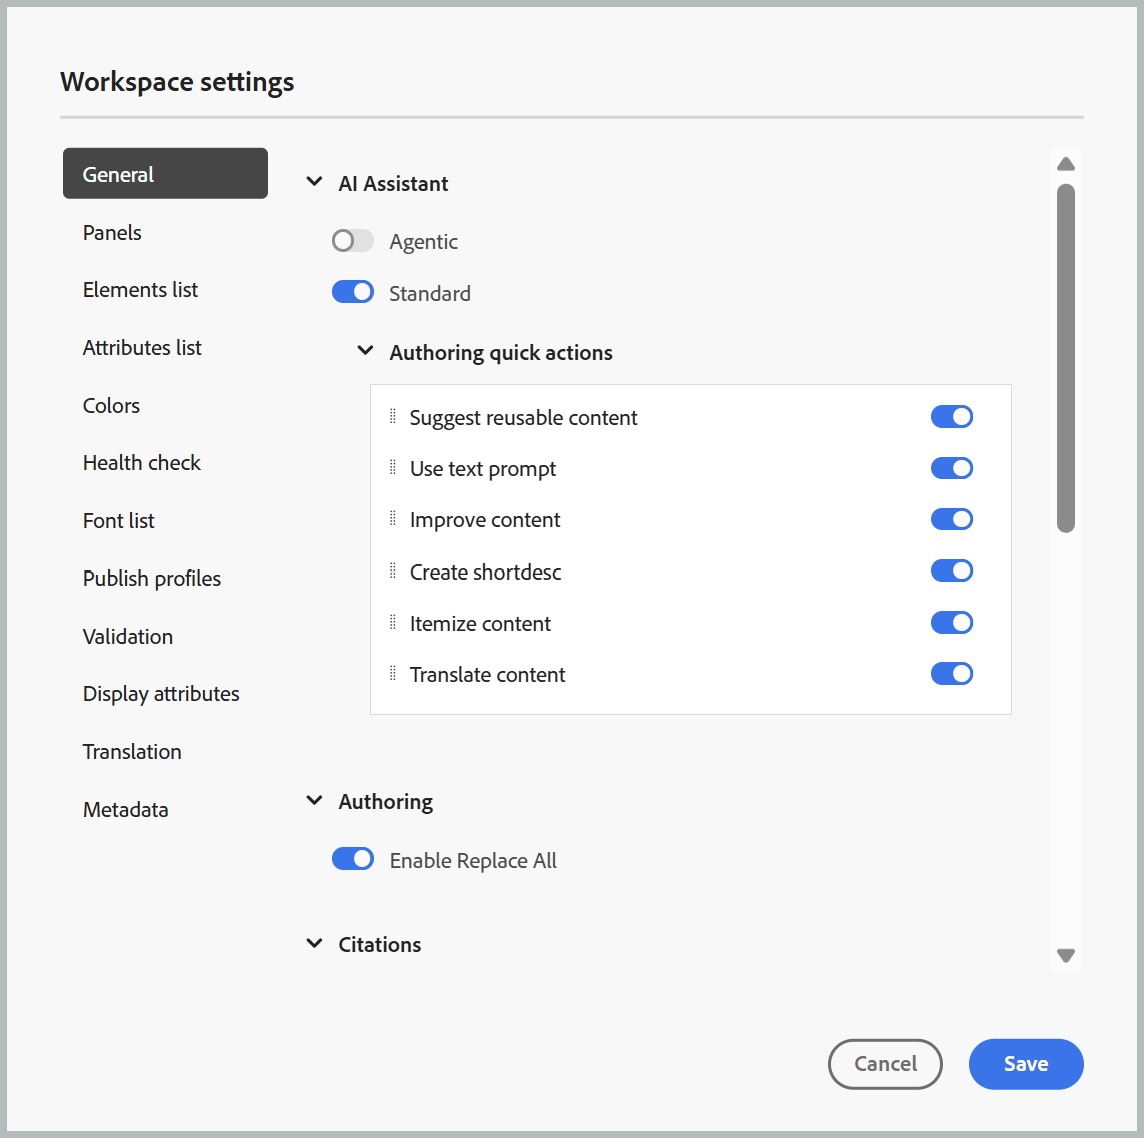
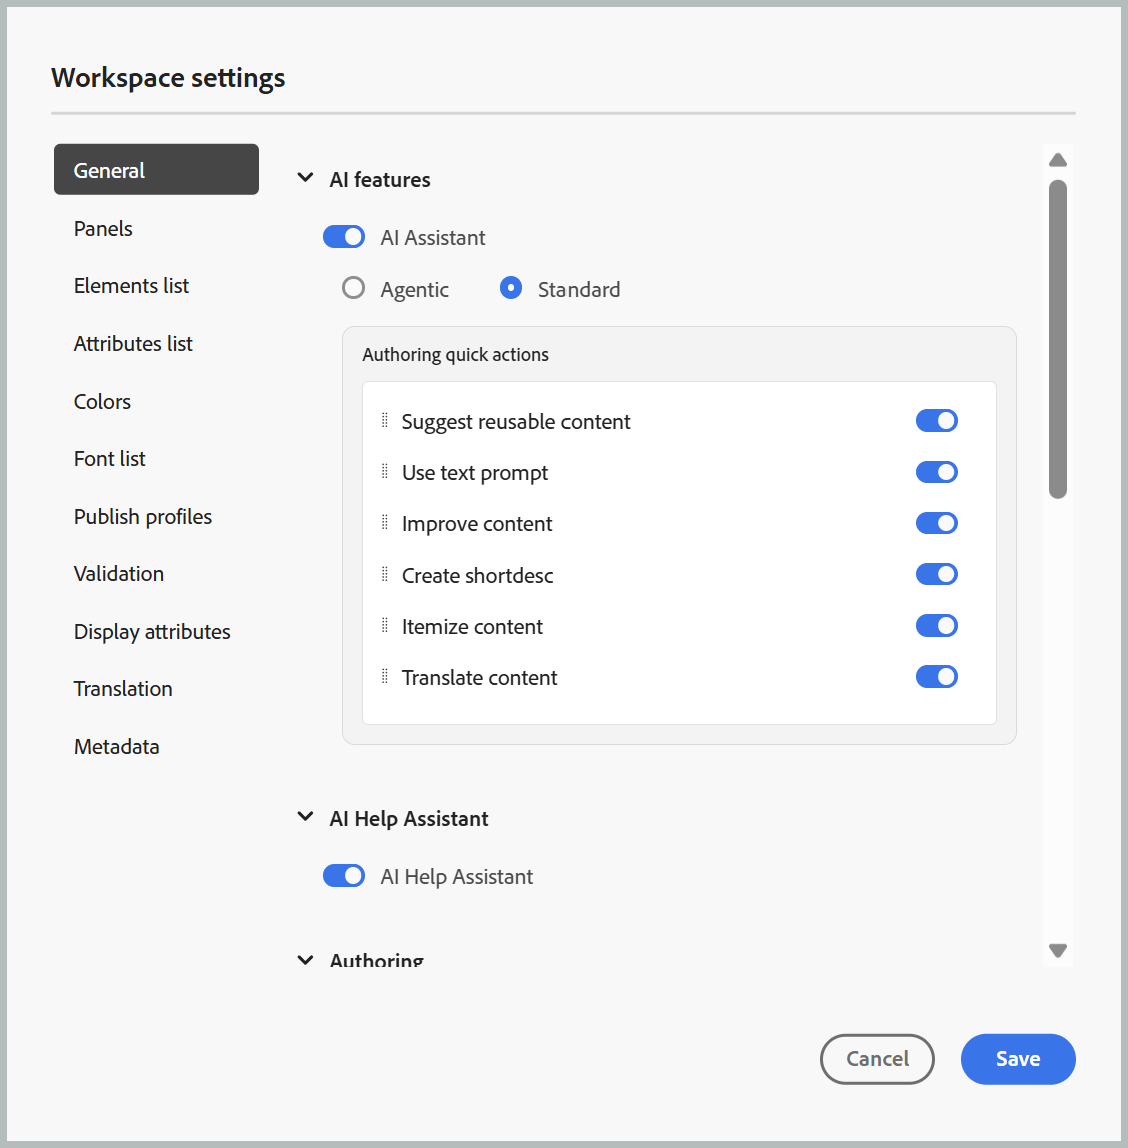
updated install congfig article

diff --git a/help/product-guide/user-guide/web-editor-tab-bar.md b/help/product-guide/user-guide/web-editor-tab-bar.md
@@ -62,21 +62,17 @@ Saves the changes you have made in all opened topics. If you have multiple topic
 >
 > The **Save all** operation does not create a new version of your topics. To create a new version, use the **Save as new version** option.
 
-**AI Assistant**
-
-A powerful, AI-driven tool designed to enhance your productivity through smart help and authoring features. It brings together two robust AI features — **Authoring** and **Help** — into the Experience Manager Guides interface, enabling you to author content and access information from Experience Manager Guides documentation faster and more efficiently. 
+**AI Assistant**: The AI Assistant in Adobe Experience Manager Guides is an AI-powered tool designed to enhance productivity by simplifying content creation, management, and authoring workflows. AI Assistant is available in two modes: **Agentic** and **Standard**.
 
 >[!NOTE]
 >
-> The AI Assistant feature is currently available for Adobe Experience Manager Guides as a Cloud Service.
+> For using Agentic mode of AI Assistant feature in your environment, contact the Customer Success team. After the feature is enabled, Administrators can turn it on or off from Workspace Settings. Only one mode of AI Assistant can be enabled at a time; either Agentic or Standard.
 
-**Guides AI**
+- **Agnetic**: Agentic mode in AI Assistant enables you to accomplish content-related tasks through natural language interactions. You can describe your requirements in the chat panel, and AI Assistant plans and executes tasks while providing visibility into its progress. It supports skills such as Import, which converts PDF, Word, or Markdown files from your device or content repository into structured topics; Create, which generates new topics based on your requirements and can reference existing content for tone and style; and Smart Tagging, which recommends relevant tags based on your organization's taxonomy to improve metadata consistency.
 
-Brings intelligent, agentic Smart Tagging skill from Adobe CX Enterprise Coworker into the Editor, enabling natural, conversational content tagging. It analyzes your content, recommends relevant tags, and helps you apply consistent and accurate metadata with minimal effort. You can review the suggested tags and choose to apply or reject them before confirming your selection improving content organization and discoverability.
+- **Standard**: A powerful, AI-driven tool designed to enhance your productivity through smart authoring capabilities of AI Assistant that makes your authoring process smarter and faster through intelligent suggestions for content reuse and optimization. 
 
->[!NOTE]
->
-> For using Guides AI feature in your environment, contact the Customer Success team. After the feature is enabled, Administrators can turn it on or off from Workspace Settings. Only one AI experience can be enabled at a time; either Guides AI or AI Assistant.
+**Help assistant**: The **Help assistant** in Adobe Experience Manager Guides is a generative AI-powered conversational search feature that helps you find information about product features, workflows, and troubleshooting. It provides relevant answers based on Experience Manager Guides documentation, supports follow-up questions, and includes links to source articles for further reference.
 
 **Expand view**: Allows you to expand the page view using the **Expand** icon. In this view, the header bar containing the Adobe Experience Manager logo, is hidden. This maximizes the content space for editing. To return to the standard view, use the **Exit the expanded view** icon.
 

diff --git a/help/product-guide/install-conf-guide/workspace-settings.md b/help/product-guide/install-conf-guide/workspace-settings.md
@@ -38,22 +38,22 @@ The **Workspace settings** option present in the [Tab bar](../user-guide/web-edi
 
 ![](assets/editor-setting-general-agentic.png){width="350"}
 
-- **AI Assistant**
+- **AI features**
 
     >[!NOTE]
     >
     > For using Agentic mode of AI Assistant feature in your environment, contact the Customer Success team.
 
-    Select this to enable the [AI Assistant](../user-guide/ai-assistant.md) feature in the Experience Manager Guides. Unselect to disable the feature.
+    Select to enable the AI Assistant feature in the Experience Manager Guides. Unselect to disable the feature.
 
-    AI Assistant is available in two modes: **Agentic** and **Standard**. You can choose between the two modes by enabling the respective toggles.
+    AI Assistant is available in two modes: **Agentic** and **Standard**. You can choose between the two modes by enabling the respective radio buttons.
 
-    - **Agentic**: After enabling this option you will be able to access the Agentic AI Assistant feature from the Navigation bar on Home page and Tab bar on Editor interface. For details on how to genearted AI suggested tags for topics, view [Use AI Assistant in Agentic mode](../user-guide/ai-assistant-agentic.md).
+    - **Agentic**: After enabling this option, you can access Agentic AI Assistant from the navigation bar on the Homepage and the tab bar in the Editor. You can also configure the taxonomy namespaces used by the Smart Tagging skill to generate tag recommendations. AI Assistant considers only tags from the selected namespaces, based on the tags defined in AEM. For details view [Agentic mode in AI Assistant](../user-guide/ai-assistant.md#ai-assistant-modes).
 
-    ![](assets/agentic-ai-workspace.png){width="350"}
+        ![](assets/agentic-new.png){width="350"}
 
-    - **Standard**: After enabling the **Standard** toggle, you can configure which options appear under the **Authoring tab** for authors using the **Authoring quick actions** menu as shown below.  
-
+    - **Standard**: After enabling the **Standard** toggle, you can configure which options appear under the **Authoring tab** for authors using the **Authoring quick actions** menu as shown below. 
+    
         These changes apply to the specific folder profile you are working with. If you create a new folder profile, it will inherit the Workspace settings defined in the **Global** folder profile by default. You can modify these settings as needed using the **Workspace settings** and save the updated configuration.  
 
         For a detailed overview of the available options for Authoring using AI Assistant, view [Author documents smartly with AI Assistant](../user-guide/ai-assistant-right-panel.md).

diff --git a/help/product-guide/user-guide/intro-home-page.md b/help/product-guide/user-guide/intro-home-page.md
@@ -51,7 +51,7 @@ Features available in the navigation bar are explained as follows:
   
   The [AI Assistant](./ai-assistant.md) feature is currently only available for Adobe Experience Manager as Cloud Service.  
 
-- **Help assistant**: The **Help Assistant** in Adobe Experience Manager Guides is a generative AI-powered conversational search feature that helps you find information about product features, workflows, and troubleshooting. It provides relevant answers based on Experience Manager Guides documentation, supports follow-up questions, and includes links to source articles for further reference.
+- **Help assistant**: The **Help assistant** in Adobe Experience Manager Guides is a generative AI-powered conversational search feature that helps you find information about product features, workflows, and troubleshooting. It provides relevant answers based on Experience Manager Guides documentation, supports follow-up questions, and includes links to source articles for further reference.
 - **Customize overview section**: Allows you to hide or show the widgets in the Widgets section. 
 - **Folder profile in use**: Displays the folder profile that is currently being used.
 - **More actions**: Provides access to additional options. Selecting this button opens a menu with the following options:
